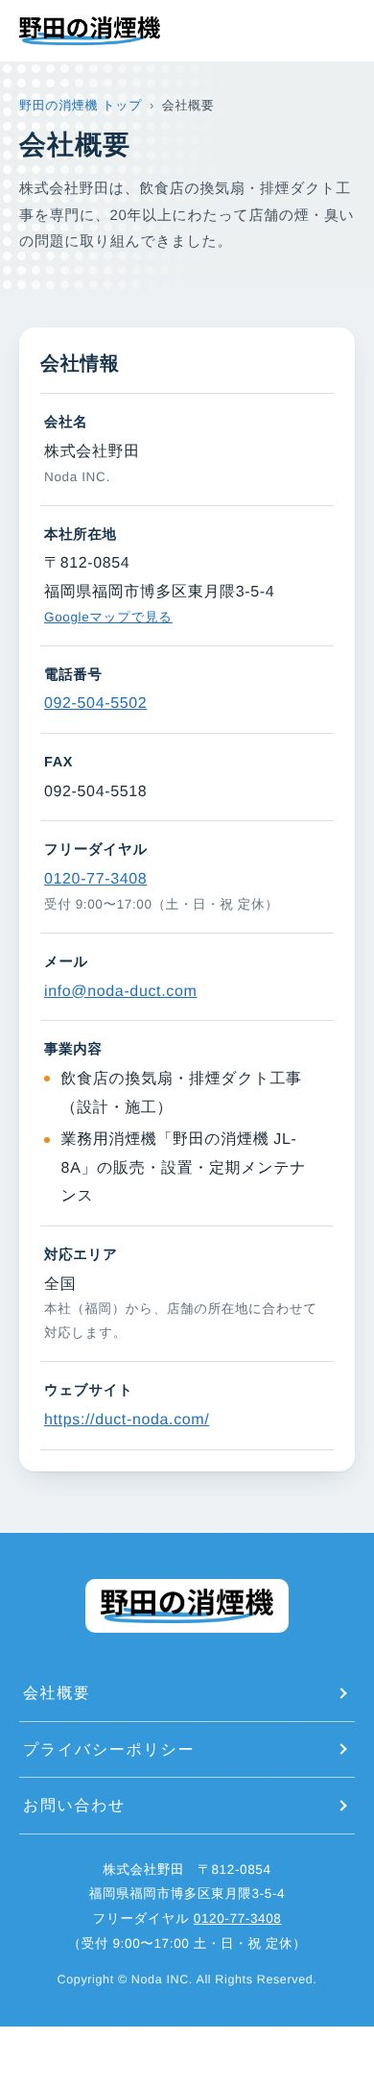
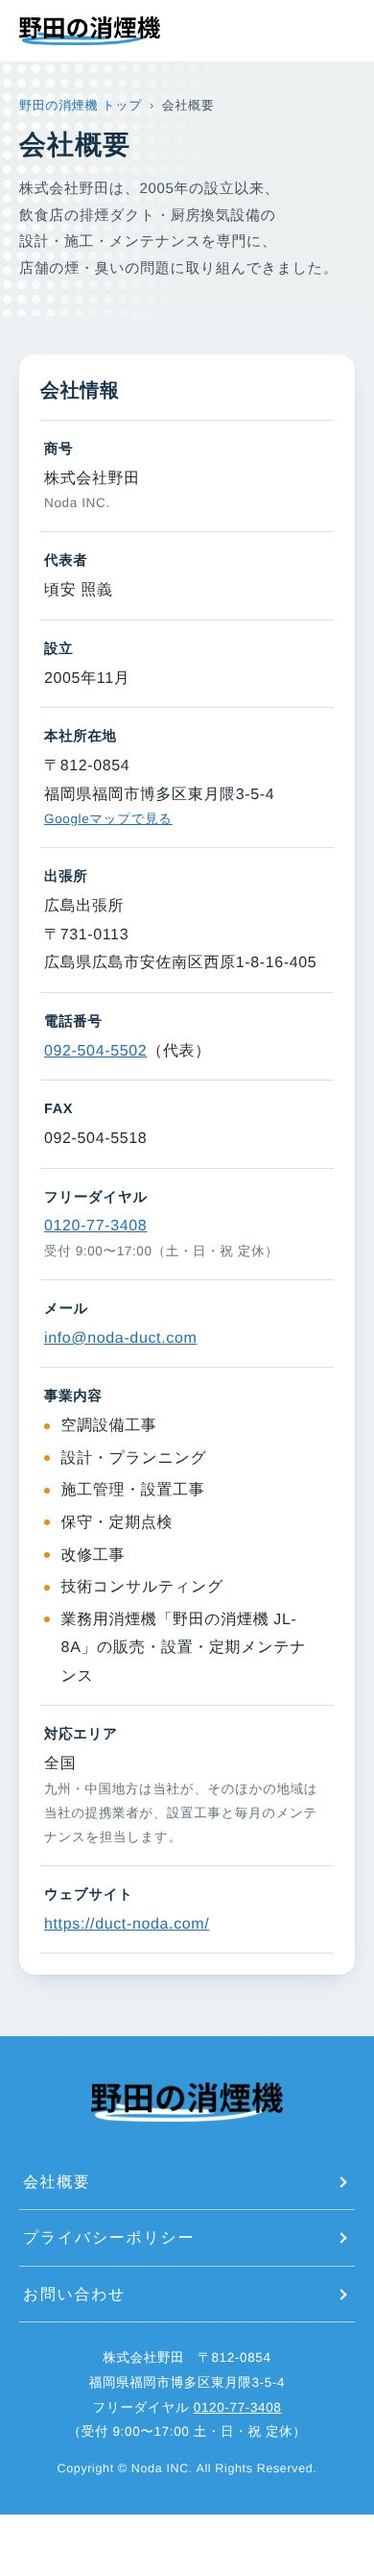
会社概要とプライバシーポリシーを会社サイトの内容に合わせる
- 会社概要に代表者（頃安 照義）と設立（2005年11月）を加え、項目名と事業内容を
  会社サイト（duct-noda.com/company/）の会社概要に合わせた。消煙機の販売・設置・
  メンテナンスは事業内容に残した
- プライバシーポリシーを会社サイトの文面（1〜6とお問い合わせ窓口）に差し替え、
  このサイトのフォーム・提携業者への委託・計測タグの説明を補足として足した。
  窓口には住所と代表者名を書き添えた

Claude-Session: https://claude.ai/code/session_019JDn7AZMLfVuv5c9s7Xp3K

diff --git a/privacypolicy/index.html b/privacypolicy/index.html
@@ -77,54 +77,46 @@ j=d.createElement(s),dl=l!='dataLayer'?'&l='+l:'';j.async=true;j.src=
       <li aria-current="page">プライバシーポリシー</li>
     </ol>
     <h1 class="pghd__ttl" id="pg-ttl">プライバシーポリシー</h1>
-    <p class="pghd__lead">株式会社野田（以下「当社」）は、お客様の個人情報を適切に取り扱うことを社会的な責務と考え、<span class="nb">次のとおり方針を定めます。</span></p>
+    <p class="pghd__lead">株式会社野田（以下「当社」）は、お客様及び取引先の皆様（以下「お客様等」）の個人情報の重要性を認識し、その適切な保護のため以下のプライバシーポリシーを定め、<span class="nb">個人情報の管理を徹底いたします。</span></p>
   </div>
 </section>
 
 <section class="page sec--light">
   <div class="wrap wrap--narrow">
     <div class="page__card prose">
-      <h2>1. 取得する個人情報</h2>
-      <p>当社は、資料請求・お問い合わせフォーム、お電話、LINE、メールなどを通じて、次の情報をお預かりします。</p>
+      <h2>1. 個人情報の取得と利用目的</h2>
+      <p>当社は、お客様等の以下の個人情報を取得します。</p>
       <ul>
-        <li>店舗名・会社名、お名前</li>
-        <li>メールアドレス、電話番号、店舗の所在地（都道府県）</li>
-        <li>お問い合わせの内容、その他お客様がご記入された情報</li>
+        <li>氏名</li>
+        <li>法人名</li>
+        <li>電話番号</li>
+        <li>メールアドレス</li>
+        <li>住所</li>
       </ul>
+      <p>これらの個人情報は、当社サービスの提供および顧客サポートを目的として利用いたします。</p>
 
-      <h2>2. 利用目的</h2>
-      <p>お預かりした個人情報は、次の目的の範囲内で利用します。</p>
-      <ol>
-        <li>資料の送付、お問い合わせへの回答</li>
-        <li>現地調査、お見積り、設置工事、定期メンテナンスに関するご連絡</li>
-        <li>当社の製品・サービスに関するご案内</li>
-        <li>サービスの改善、新しいサービスの検討</li>
-      </ol>
+      <h2>2. 個人情報の第三者提供について</h2>
+      <p>当社は、お客様等から取得した個人情報を、本人の同意を得ることなく第三者に提供することはありません。ただし、法令に基づく場合や、人命、身体、財産の保護のために必要であって、本人の同意を得ることが困難な場合を除きます。</p>
 
-      <h2>3. 第三者への提供</h2>
-      <p>当社は、法令に基づく場合を除き、ご本人の同意なく個人情報を第三者に提供しません。</p>
+      <h2>3. 個人情報の管理</h2>
+      <p>当社は、個人情報を管理する担当者を明確に定め、管理者のみが閲覧可能な環境で個人情報を厳重に保管いたします。適切なセキュリティ対策を実施し、個人情報の漏洩、紛失、破壊、不正アクセス等の防止に努めます。</p>
 
-      <h2>4. 業務の委託</h2>
-      <p>九州・中国地方以外の地域では、設置工事と定期メンテナンスを当社の提携業者に委託しています。このほかの業務を含め、外部に委託する場合は、利用目的の達成に必要な範囲で個人情報を委託先に預けることがあります。その際は、委託先を適切に選び、必要な監督を行います。</p>
+      <h2>4. 個人情報の開示、訂正、削除</h2>
+      <p>お客様等ご本人から自己の個人情報について、開示・訂正・削除等のご要望があった場合には、速やかに対応いたします。下記のお問い合わせ窓口までご連絡ください。</p>
 
-      <h2>5. 安全管理</h2>
-      <p>当社は、個人情報の漏えい・紛失・改ざんを防ぐため、必要かつ適切な安全管理措置を講じます。</p>
+      <h2>5. Cookieおよびアクセス解析ツールの利用</h2>
+      <p>当社のウェブサイトではGoogle Analyticsを使用していますが、これによりお客様等個人を特定できる情報を収集することはありません。また、LINE、Instagram、X等のSNS利用についても、個人情報との関連付けは行っておりません。</p>
 
-      <h2>6. アクセス解析・外部サービス</h2>
-      <p>当ウェブサイトでは、利用状況の把握と改善のため、Google LLC の「Google タグマネージャー」「Google アナリティクス」を使用しています。これらは Cookie を使って、個人を特定しない形で閲覧情報を集めます。データの収集は、<a href="https://tools.google.com/dlpage/gaoptout?hl=ja" target="_blank" rel="noopener">Google アナリティクス オプトアウト アドオン</a>やブラウザの設定で無効にできます。</p>
-      <p>動画は YouTube（Google LLC）のプレーヤーで再生します。プレーヤーは再生ボタンを押したときに読み込まれます。</p>
+      <h2>6. 本ポリシーの変更</h2>
+      <p>本ポリシーの内容は、法令等の変更や必要に応じて予告なく改訂される場合があります。変更後のプライバシーポリシーは、ウェブサイトへの掲載をもって効力を生じるものとします。</p>
 
-      <h2>7. 開示・訂正・削除などのご請求</h2>
-      <p>ご本人から、ご自身の個人情報の開示・訂正・追加・削除・利用停止のご請求があった場合は、ご本人であることを確認したうえで、法令に従って速やかに対応します。</p>
+      <h2>このサイト（野田の消煙機）での取り扱いについて</h2>
+      <p>このサイトの資料請求・お問い合わせフォームでは、店舗名・会社名、お名前、メールアドレス、電話番号、店舗の所在地（都道府県）、お問い合わせの内容をお預かりします。資料の送付、お問い合わせへの回答、現地調査・お見積り・設置工事・定期メンテナンスに関するご連絡に利用します。</p>
+      <p>九州・中国地方以外の地域では、設置工事と毎月のメンテナンスを当社の提携業者に委託しています。その際は、業務に必要な範囲で個人情報を提携業者に預け、適切に取り扱うよう監督します。</p>
+      <p>このサイトでは、利用状況の把握と改善のため、Google LLC の「Google タグマネージャー」と「Google アナリティクス」を使用しています。これらは Cookie を使って、個人を特定しない形で閲覧情報を集めます。データの収集は、<a href="https://tools.google.com/dlpage/gaoptout?hl=ja" target="_blank" rel="noopener">Google アナリティクス オプトアウト アドオン</a>やブラウザの設定で無効にできます。動画は YouTube（Google LLC）のプレーヤーで再生し、プレーヤーは再生ボタンを押したときに読み込まれます。</p>
 
-      <h2>8. お問い合わせ窓口</h2>
-      <p>個人情報の取り扱いに関するご質問やご請求は、次の窓口までご連絡ください。</p>
-      <address>株式会社野田<br>〒812-0854 福岡県福岡市博多区東月隈3-5-4<br>電話：<a href="tel:0925045502">092-504-5502</a>（受付 9:00〜17:00 土・日・祝 定休）<br>メール：<a href="mailto:info@noda-duct.com">info@noda-duct.com</a></address>
-
-      <h2>9. 改定</h2>
-      <p>当社は、法令の変更などに合わせて、この方針を改定することがあります。改定後の内容は、このページに掲載した時点から適用します。</p>
-
-      <p class="prose__date">2026年10月14日 制定</p>
+      <h2>お問い合わせ窓口</h2>
+      <address>株式会社野田 個人情報保護担当窓口<br>〒812-0854 福岡県福岡市博多区東月隈3-5-4（代表者：頃安 照義）<br>電話：<a href="tel:0925042185">092-504-2185</a></address>
     </div>
   </div>
 </section>

diff --git a/company/index.html b/company/index.html
@@ -77,7 +77,7 @@ j=d.createElement(s),dl=l!='dataLayer'?'&l='+l:'';j.async=true;j.src=
       <li aria-current="page">会社概要</li>
     </ol>
     <h1 class="pghd__ttl" id="pg-ttl">会社概要</h1>
-    <p class="pghd__lead">株式会社野田は、飲食店の換気扇・排煙ダクト工事を専門に、<span class="nb">20年以上にわたって</span>店舗の煙・臭いの問題に取り組んできました。</p>
+    <p class="pghd__lead">株式会社野田は、2005年の設立以来、<span class="nb">飲食店の排煙ダクト・厨房換気設備の</span><span class="nb">設計・施工・メンテナンスを専門に、</span><span class="nb">店舗の煙・臭いの問題に取り組んできました。</span></p>
   </div>
 </section>
 
@@ -86,15 +86,22 @@ j=d.createElement(s),dl=l!='dataLayer'?'&l='+l:'';j.async=true;j.src=
     <div class="page__card">
       <h2 class="page__h2">会社情報</h2>
       <dl class="dtable">
-        <div><dt>会社名</dt><dd>株式会社野田<small>Noda INC.</small></dd></div>
-        <div><dt>本社</dt><dd>〒812-0854<br>福岡県福岡市博多区東月隈3-5-4<small><a href="https://www.google.com/maps/search/?api=1&query=福岡県福岡市博多区東月隈3-5-4" target="_blank" rel="noopener">Googleマップで見る</a></small></dd></div>
-        <div><dt>広島出張所</dt><dd>〒731-0113<br>広島県広島市安佐南区西原1-8-16-405</dd></div>
-        <div><dt>電話番号</dt><dd><a href="tel:0925045502">092-504-5502</a></dd></div>
+        <div><dt>商号</dt><dd>株式会社野田<small>Noda INC.</small></dd></div>
+        <div><dt>代表者</dt><dd>頃安 照義</dd></div>
+        <div><dt>設立</dt><dd>2005年11月</dd></div>
+        <div><dt>本社所在地</dt><dd>〒812-0854<br>福岡県福岡市博多区東月隈3-5-4<small><a href="https://www.google.com/maps/search/?api=1&query=福岡県福岡市博多区東月隈3-5-4" target="_blank" rel="noopener">Googleマップで見る</a></small></dd></div>
+        <div><dt>出張所</dt><dd>広島出張所<br>〒731-0113<br>広島県広島市安佐南区西原1-8-16-405</dd></div>
+        <div><dt>電話番号</dt><dd><a href="tel:0925045502">092-504-5502</a>（代表）</dd></div>
         <div><dt>FAX</dt><dd>092-504-5518</dd></div>
         <div><dt>フリーダイヤル</dt><dd><a href="tel:0120773408">0120-77-3408</a><small>受付 9:00〜17:00（土・日・祝 定休）</small></dd></div>
         <div><dt>メール</dt><dd><a href="mailto:info@noda-duct.com">info@noda-duct.com</a></dd></div>
         <div><dt>事業内容</dt><dd><ul>
-          <li>飲食店の換気扇・排煙ダクト工事（設計・施工）</li>
+          <li>空調設備工事</li>
+          <li>設計・プランニング</li>
+          <li>施工管理・設置工事</li>
+          <li>保守・定期点検</li>
+          <li>改修工事</li>
+          <li>技術コンサルティング</li>
           <li>業務用消煙機「野田の消煙機 JL-8A」の販売・設置・定期メンテナンス</li>
         </ul></dd></div>
         <div><dt>対応エリア</dt><dd>全国<small>九州・中国地方は当社が、そのほかの地域は当社の提携業者が、設置工事と毎月のメンテナンスを担当します。</small></dd></div>

diff --git a/README.md b/README.md
@@ -72,12 +72,13 @@ npx serve .
 
 | ページ | 内容 |
 |---|---|
-| `company/` | 会社情報（会社名、本社、広島出張所、電話・FAX・フリーダイヤル、メール、事業内容、対応エリア、ウェブサイト） |
-| `privacypolicy/` | 個人情報の取り扱い（このサイトのフォームと計測タグに合わせた内容） |
+| `company/` | 会社情報（商号、代表者、設立、本社所在地、広島出張所、電話・FAX・フリーダイヤル、メール、事業内容、対応エリア、ウェブサイト）。会社サイトの会社概要に合わせています |
+| `privacypolicy/` | 会社サイトのプライバシーポリシー（1〜6とお問い合わせ窓口）をそのまま載せ、「このサイト（野田の消煙機）での取り扱いについて」としてフォーム・提携業者への委託・計測タグの説明を足しています |
 | `contact/` | お問い合わせフォーム（種類・店名・都道府県・お名前・メール・電話・内容）と、電話・LINEの案内。フォームの先頭と送信後の表示、受付確認メールで「このフォームでは資料は届かない。資料は資料請求フォームから」と案内 |
 
-- 会社情報は取扱説明書と現行LPに載っている内容だけで作っています。代表者名・設立・資本金・許可番号などは、会社サイトの会社概要に合わせて追加します。
-- プライバシーポリシーは、会社サイトの現在の文面を確認できなかったため、新しく書いた案です。会社サイトの文面に合わせるか、この案を確認してください。2022年の法改正で公表が必要になった代表者名も、あわせて載せる必要があります。
+- 会社情報は会社サイト（duct-noda.com/company/、2026年10月14日に確認）の会社概要に合わせました。事業内容には、このサイトで扱う消煙機の販売・設置・メンテナンスを足しています。会社サイトには資本金・許可番号の記載はありません。
+- 会社サイトの見出しまわりには、広島出張所の古い住所（佐伯区）がまだ残っています。会社概要の表は安佐南区です。
+- プライバシーポリシーのお問い合わせ窓口には、2022年の法改正で公表が必要になった住所と代表者名を書き添えています。
 - ヘッダーとフッターは4ページそれぞれに書いています。電話番号などを変えるときは、4ファイルとも直してください。
 
 ## 表示速度
@@ -142,7 +143,6 @@ npx serve .
 
 - **資料PDFのURL**：自動返信メールに載せる資料のURLを教えてください。
 - **会社ドメイン**：取扱説明書のメール・Webは `noda-duct.com`、現行LPのリンク先は `duct-noda.com` です。検索結果では両方のサイトが出てきます。会社概要のウェブサイト欄は `duct-noda.com` にしています。
-- **会社概要・プライバシーポリシー**：上記「会社概要・プライバシーポリシー・お問い合わせ」のとおり、会社サイトの内容との照合が必要です。
 - **全国対応の表現**：「全国対応」と、よくある質問の答え（設置とメンテナンスの進め方は地域ごとにご案内）を、実際の体制に合わせて確認してください。
 - **実績の数字**：「導入店舗の99%がクレーム減少を実感」「全国100軒以上」「清掃頻度が月1回から3ヶ月に1回」は現行LPの記載をそのまま使っています。
 - **フッターの会社情報**：住所・電話は取扱説明書の記載（株式会社野田、福岡市博多区東月隈3-5-4）です。
